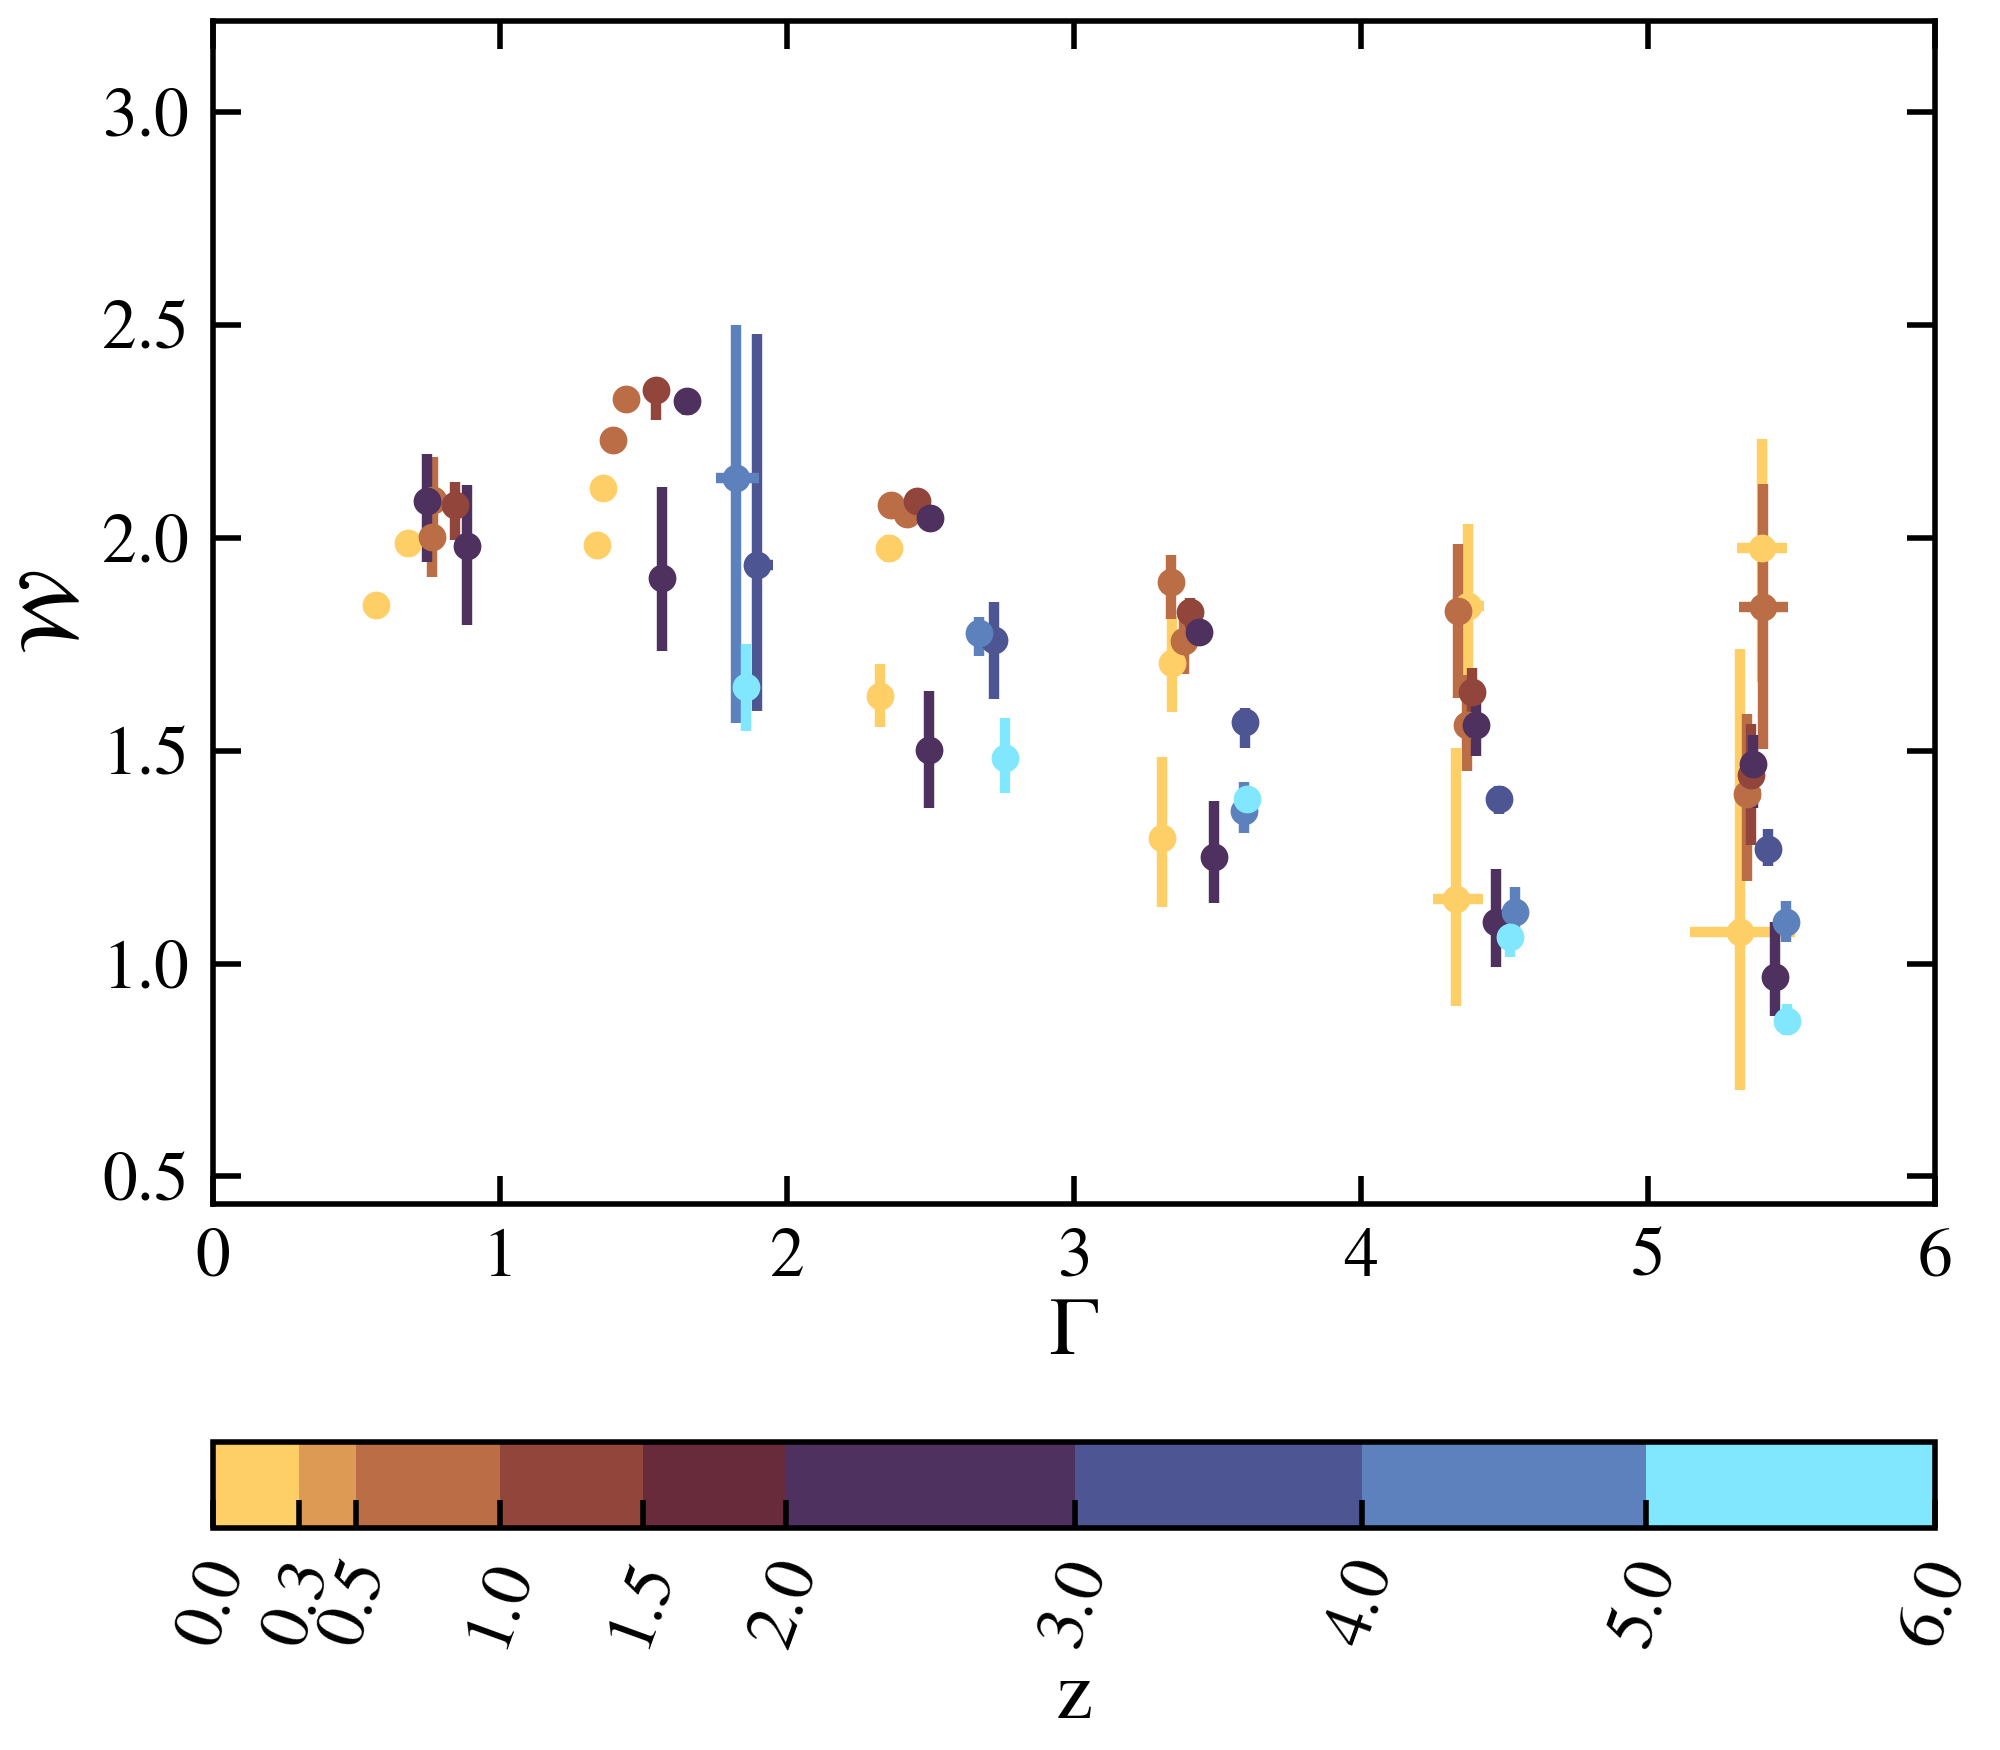
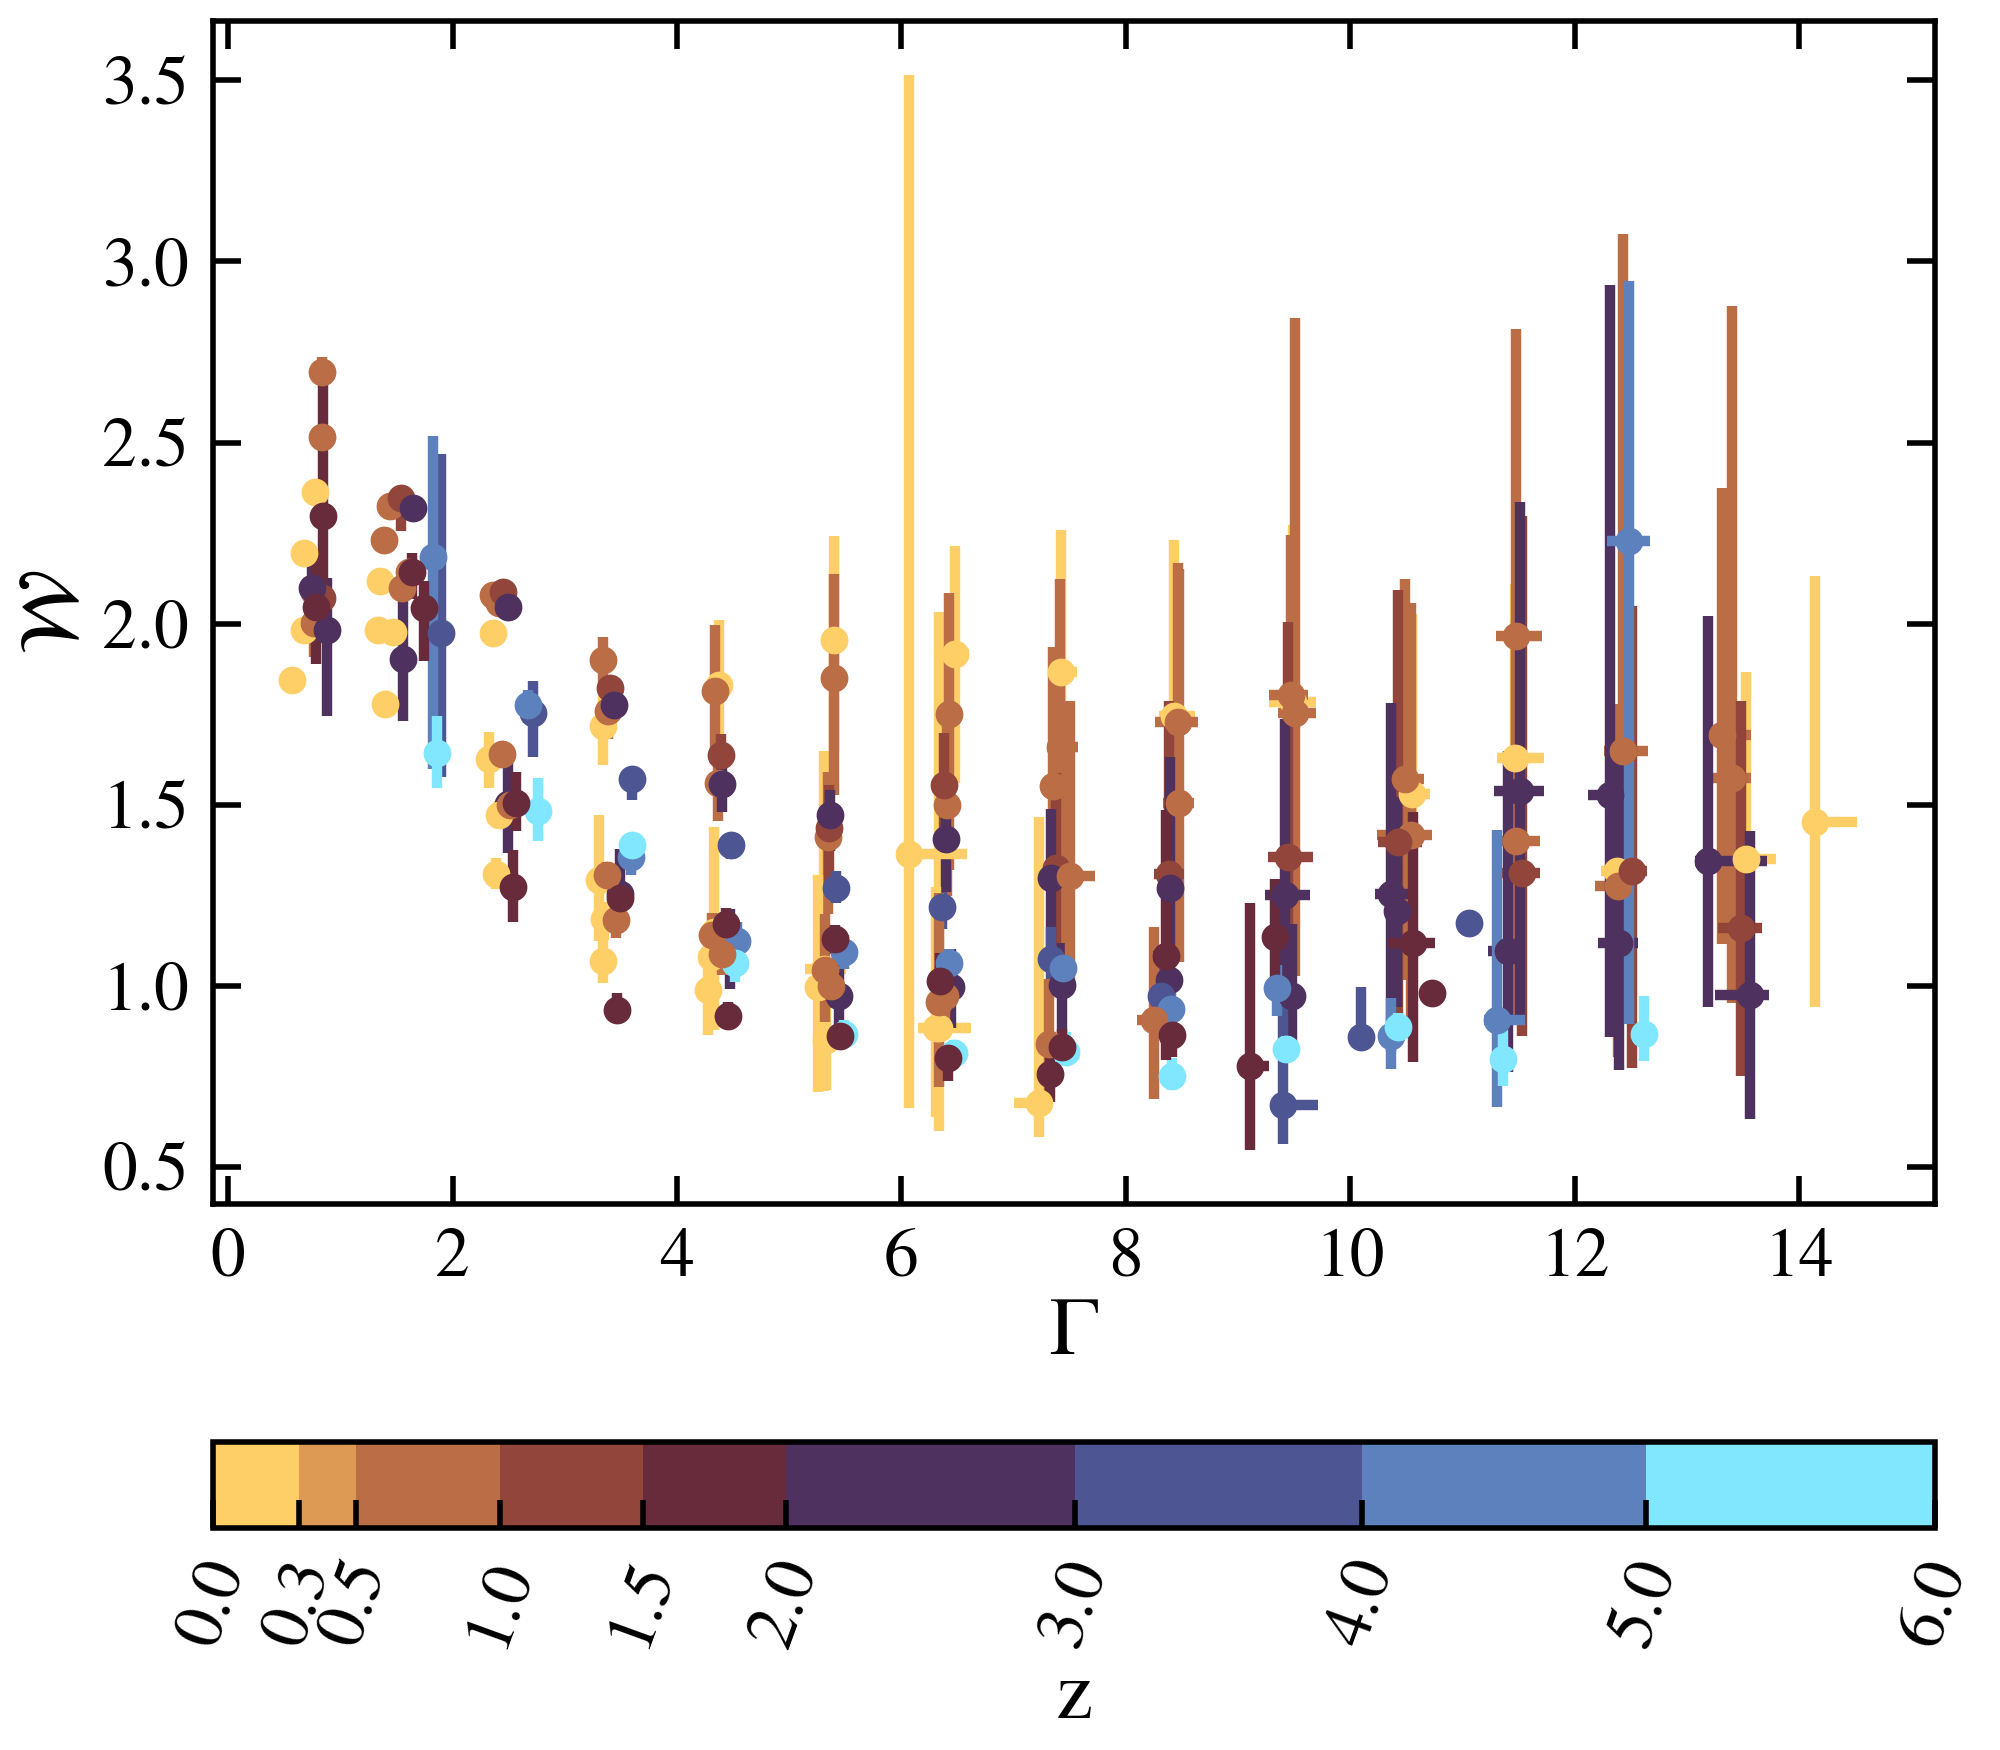
finish plot accretion rate

diff --git a/code/paper_plot/fig3_accret.py b/code/paper_plot/fig3_accret.py
@@ -13,80 +13,81 @@ print('>>> Plot the absolute depth and width vs mass for a few redshifts <<<')
 print('')
 
 root_dir = 'result/bootstrap_stats/with_accret/'
-simus = [
-    # 'Hydro', 
-    'DM'
-         ]
-feature = 'abs_depth' # [abs_depth / depth / width_dimless]
+simus = ['Hydro', 'DM']
+features = ['width_dimless' , 'abs_depth', 'depth']
+for simu in simus:
+    for feature in features:
 
-# ============================================================================================
-# Set up the plot
-# ============================================================================================
+        # ============================================================================================
+        # Set up the plot
+        # ============================================================================================
 
-fig, axs = plt.subplots(1, 1, figsize=(4, 3.5), dpi=500, sharex=True, constrained_layout=True)
+        fig, axs = plt.subplots(1, 1, figsize=(4, 3.5), dpi=500, sharex=True, constrained_layout=True)
 
-# ============================================================================================
-# Set up the colorbar
-# ============================================================================================
+        # ============================================================================================
+        # Set up the colorbar
+        # ============================================================================================
 
-TNG300_snaps = [99, 78, 67, 50, 40, 33, 25, 21, 17, 13]
-TNG300_dir = f'{root_dir}/TNG300/sim_205_1250_{simus[0]}/Nboots_1024/'
-TNG300_z_i, TNG300_z_f = load_all_z(TNG300_dir, [min(TNG300_snaps), max(TNG300_snaps)])
+        TNG300_snaps = [99, 78, 67, 50, 40, 33, 25, 21, 17, 13]
+        TNG300_dir = f'{root_dir}/TNG300/sim_205_1250_{simu}/Nboots_1024/'
+        TNG300_z_i, TNG300_z_f = load_all_z(TNG300_dir, [min(TNG300_snaps), max(TNG300_snaps)])
 
-all_z = load_all_z(TNG300_dir, TNG300_snaps)
+        all_z = load_all_z(TNG300_dir, TNG300_snaps)
 
-MTNG_snaps = [264, 237, 214, 179, 151, 129]
-MTNG_dir = f'{root_dir}/MTNG/{simus[0]}-Arepo/MTNG-L500-4320-A/Nboots_1024/'
+        MTNG_snaps = [264, 237, 214, 179, 151, 129]
+        MTNG_dir = f'{root_dir}/MTNG/{simu}-Arepo/MTNG-L500-4320-A/Nboots_1024/'
 
-# Set up the colorbar
-# -----------------------------------------------------------------------------------------
-cmap = plt.get_cmap('managua', len(TNG300_snaps))
-bound = all_z
-norm = BoundaryNorm(bound, cmap.N)
-cb = fig.colorbar(cm.ScalarMappable(norm=norm, cmap=cmap),
-                  ax=axs, orientation='horizontal', spacing='proportional', ticks=bound)
-# -----------------------------------------------------------------------------------------
+        # Set up the colorbar
+        # -----------------------------------------------------------------------------------------
+        cmap = plt.get_cmap('managua', len(TNG300_snaps))
+        bound = all_z
+        norm = BoundaryNorm(bound, cmap.N)
+        cb = fig.colorbar(cm.ScalarMappable(norm=norm, cmap=cmap),
+                        ax=axs, orientation='horizontal', spacing='proportional', ticks=bound)
+        # -----------------------------------------------------------------------------------------
 
-# Reduce colormap ticks sf
-from matplotlib.ticker import FuncFormatter
-def custom_format(x, pos):
-    return f'{x:.1f}'  
-cb.ax.xaxis.set_major_formatter(FuncFormatter(custom_format)) 
-cb.ax.tick_params(axis='x', rotation=70) 
-cb.set_label('z')
+        # Reduce colormap ticks sf
+        from matplotlib.ticker import FuncFormatter
+        def custom_format(x, pos):
+            return f'{x:.1f}'  
+        cb.ax.xaxis.set_major_formatter(FuncFormatter(custom_format)) 
+        cb.ax.tick_params(axis='x', rotation=70) 
+        cb.set_label('z')
 
-# ============================================================================================
-# Plot
-# ============================================================================================
+        # ============================================================================================
+        # Plot
+        # ============================================================================================
 
-# Plot TNG300
-for snap in TNG300_snaps:  
-    TNG300_z, TNG300_mass, TNG300_feat = load_stats(TNG300_dir, snap, 'med_accret', feature)
-    plot_feature(simus[0], TNG300_z, TNG300_mass, TNG300_feat, [axs, cmap, norm])
+        # Plot TNG300
+        for snap in TNG300_snaps:  
 
-# Plot MTNG
-for snap in MTNG_snaps:
-    MTNG_z, MTNG_mass, MTNG_feat = load_stats(MTNG_dir, snap, 'med_accret', feature)
-    plot_feature(simus[0], MTNG_z, MTNG_mass, MTNG_feat, [axs, cmap, norm])
+            TNG300_z, TNG300_mass, TNG300_feat = load_stats(TNG300_dir, snap, 'med_accret', feature)
+            plot_feature(simu, TNG300_z, TNG300_mass, TNG300_feat, [axs, cmap, norm])
 
-axs.set_xlim(0, 6)
-# axs.set_xscale('log')
-if feature == 'abs_depth':
-    Y_label = r"|$\mathcal{D}$|"
-elif feature == 'width_dimless':
-    Y_label = r"$\mathcal{W}$"
-else:
-    Y_label = r"$\mathcal{D}$"
-axs.set_ylabel(Y_label)
-axs.set_xlabel(r'$\Gamma$')
+        # Plot MTNG
+        for snap in MTNG_snaps:
 
-# ============================================================================================
-# Save the plot
-# ============================================================================================
+            MTNG_z, MTNG_mass, MTNG_feat = load_stats(MTNG_dir, snap, 'med_accret', feature)
+            plot_feature(simu, MTNG_z, MTNG_mass, MTNG_feat, [axs, cmap, norm])
 
-save_dir = f'result/paper_plots/'
-if not os.path.exists(save_dir):
-    os.makedirs(save_dir)
+        # axs.set_xlim(0, 10)
+        # axs.set_xscale('log')
+        if feature == 'abs_depth':
+            Y_label = r"|$\mathcal{D}$|"
+        elif feature == 'width_dimless':
+            Y_label = r"$\mathcal{W}$"
+        else:
+            Y_label = r"$\mathcal{D}$"
+        axs.set_ylabel(Y_label)
+        axs.set_xlabel(r'$\Gamma$')
 
-plt.savefig(f'{save_dir}/fig3_accret_{simus[0]}_{feature}')
-plt.close()
+        # ============================================================================================
+        # Save the plot
+        # ============================================================================================
+
+        save_dir = f'result/paper_plots/'
+        if not os.path.exists(save_dir):
+            os.makedirs(save_dir)
+
+        plt.savefig(f'{save_dir}/fig3_accret_{simu}_{feature}')
+        plt.close()

diff --git a/code/bootstrap/bootstrap_accret.py b/code/bootstrap/bootstrap_accret.py
@@ -80,6 +80,7 @@ results = np.empty((num_bins, 6, Nboots))   # [med_accret, Rsp, depth, min_grad,
 valid_boots = 0
 while valid_boots < Nboots: 
     
+    print('Current boots: ', valid_boots)
     # Random selection of halos
     indices = np.random.randint(0, total_num_halos, Nsample)
     # Select densities and masses
@@ -126,6 +127,7 @@ while valid_boots < Nboots:
             ### If the optimal params are not found! ###
             if np.all(fitted_rho) == 0:
                 print('This bootstrap is abandoned! ')
+                results[:, :, valid_boots] = -1
                 break
             else:
                 # Fit the slope
@@ -164,18 +166,21 @@ while valid_boots < Nboots:
                     
                     # Append results
                     results[i, :, valid_boots] = med_accret, Rsp, depth, min_grad, width_dimless, width
-       
+                    print(med_accret, Rsp, depth, min_grad, width_dimless, width)
+                    
         ### Only the for loop is complete, update valid_boots
         # Updata counts
         if np.all(results[:, :, valid_boots] != -1):
             valid_boots += 1
-            print(f'Nboots: {valid_boots}')
-            print('')
+            print(f'Nboots updated: {valid_boots}')
+        else:
+            print(f'Nboots not updated: {valid_boots} ')
+        print('')
             
             
         
 # Get the statistical results 
-final_results = {'z': z, 'h': h, 'mass_bins': accret_bins[:-1]}
+final_results = {'z': z, 'h': h, 'accret_bins': accret_bins[:-1]}
 final_results['med_accret']     = np.percentile(results[:, 0, :], [16, 50, 84], axis=1)
 final_results['Rsp']            = np.percentile(results[:, 1, :], [16, 50, 84], axis=1)
 final_results['depth']          = np.percentile(results[:, 2, :], [16, 50, 84], axis=1)

diff --git a/code/paper_plot/func.py b/code/paper_plot/func.py
@@ -4,9 +4,9 @@ def load_stats(dir, snap, xlabel, ylabel):
         data = np.load(f'{dir}/snap_{snap}_Rsp_stats.npy', allow_pickle=True).item()
 
         z = np.round(data['z'], 3)
-        # mass_bins     = [10**(10+mass) for mass in data['mass_bins']]
         x, xmin, xmax = data[xlabel][1], data[xlabel][0], data[xlabel][2]
         y, ymin, ymax = data[ylabel][1], data[ylabel][0], data[ylabel][2]
+        
 
         x_dict = {'median': x, f'min': xmin, f'max': xmax}
         y_dict = {'median': y, f'min': ymin, f'max': ymax}
